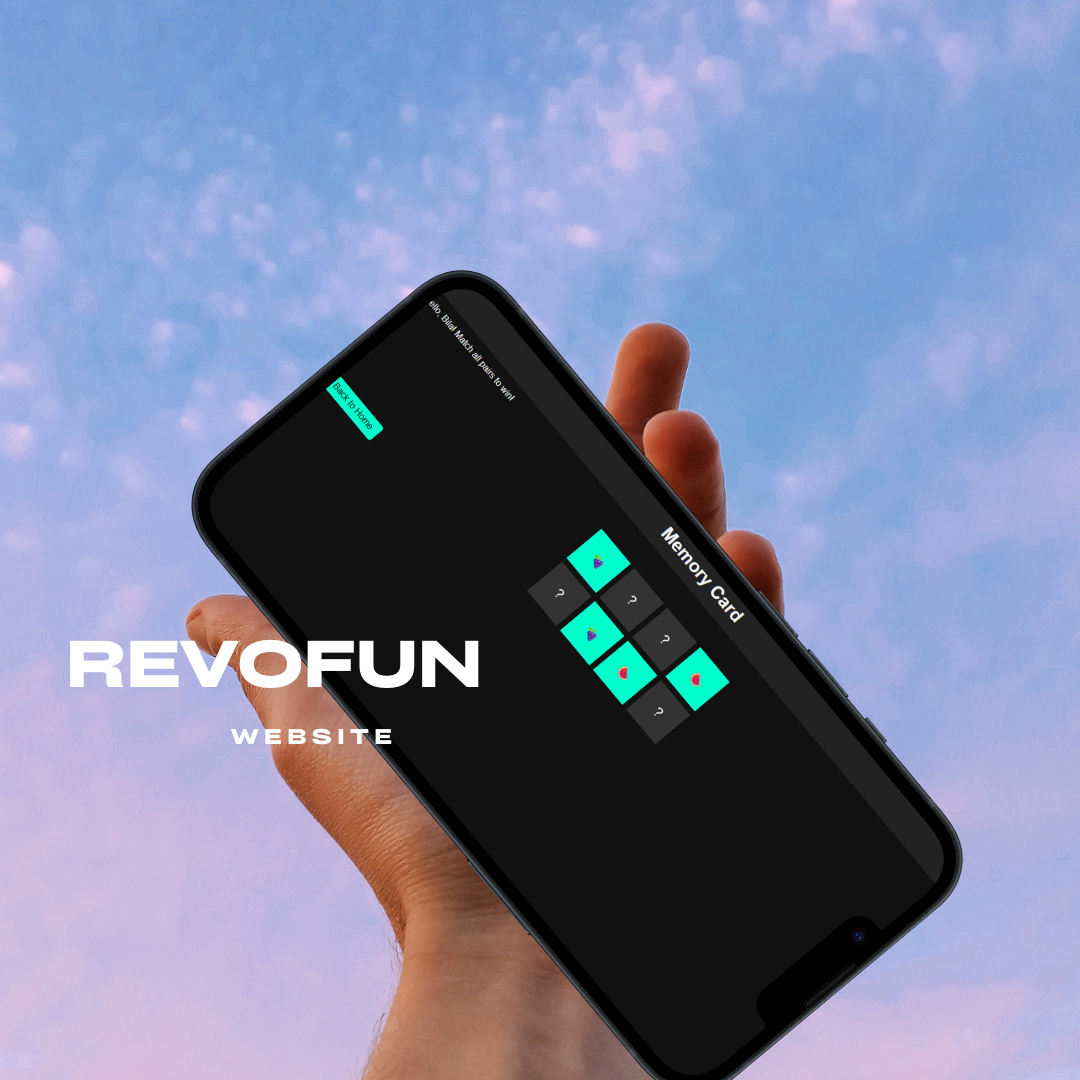
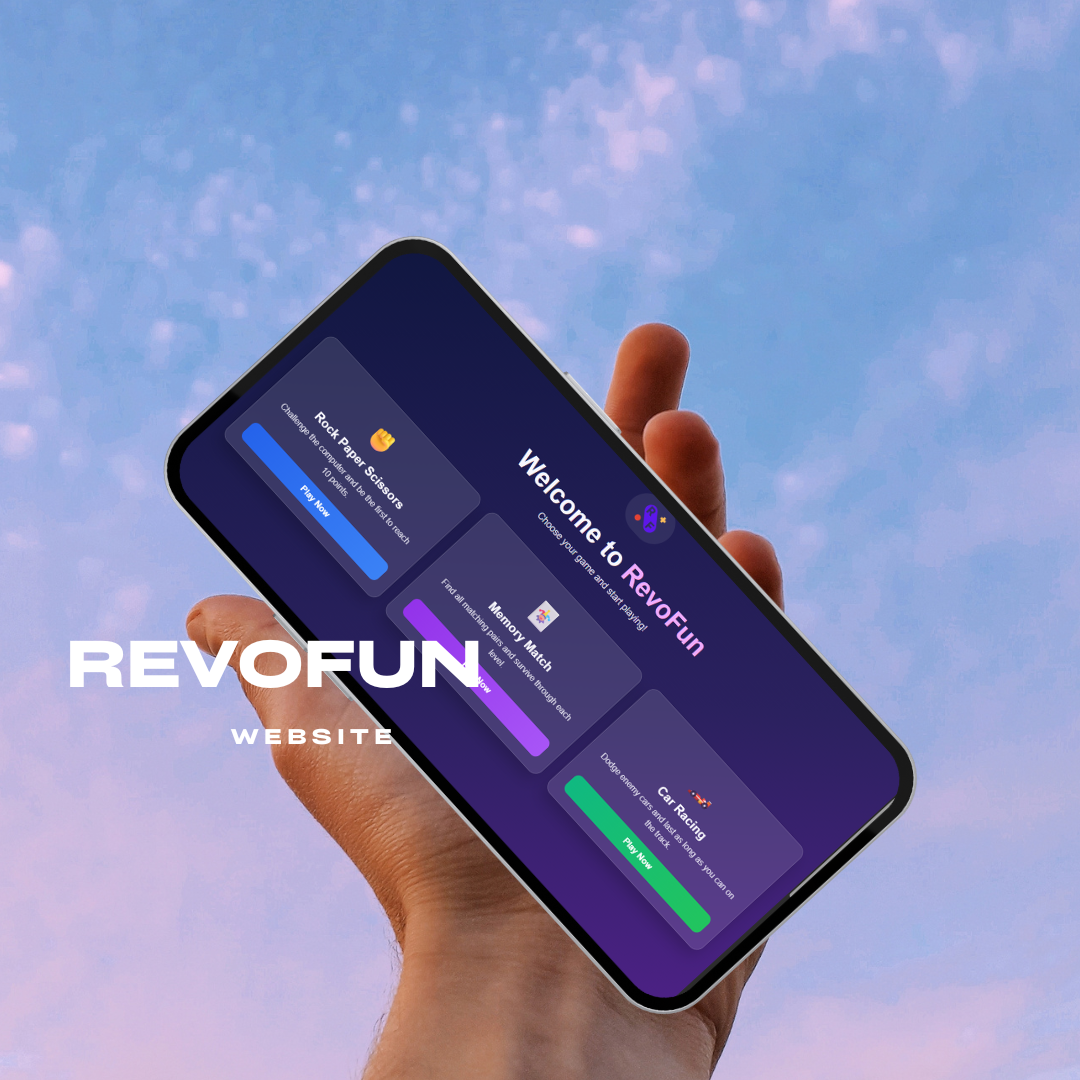
update game

Changed region(s): [[0.1528, 0.2139, 0.9167, 1.0]]

diff --git a/projects/game.html b/projects/game.html
@@ -328,16 +328,15 @@
       <div class="tech-list">
         <span class="tech-badge">HTML5</span>
         <span class="tech-badge">CSS3</span>
-        <span class="tech-badge">JavaScript</span>
-        <span class="tech-badge">Canvas API</span>
-        <span class="tech-badge">Web Storage API</span>
+        <span class="tech-badge">Vanilla JavaScript</span>
+        <span class="tech-badge">GitHub Pages</span>
       </div>
 
       <div class="divider"></div>
 
       <p class="section-label">Overview</p>
       <div class="screenshots-grid">
-        <img src="../assets/img/game.png" alt="Game overview" />
+        <img src="../assets/img/game.jpg" alt="Game overview" />
       </div>
 
       <div class="divider"></div>
@@ -345,33 +344,34 @@
       <p class="section-label">Project Summary</p>
       <div class="desc-card">
         <p>
-          RevoFun is an interactive web-based gaming platform featuring a
-          collection of classic arcade-style mini-games. Designed to demonstrate
-          front-end development skills and game logic implementation, the
-          project provides a centralized hub where users can engage in multiple
-          distinct gaming experiences directly within a web browser.
+          RevoFun is a web-based gaming hub featuring a collection of
+          interactive mini-games designed for browser-based play. The project
+          demonstrates front-end development proficiency by creating an engaging
+          user experience with a modern arcade aesthetic, providing
+          entertainment through classic game mechanics without requiring
+          additional installations.
         </p>
         <p>
-          The primary objective was to build a responsive gaming suite that
-          manages real-time user interaction and state. The project aimed to
-          implement diverse game mechanics—including pattern matching, collision
-          detection, and probability-based logic—while maintaining a cohesive
-          user interface and persistent high-score tracking via local storage.
+          The primary objective was to build a responsive, lightweight gaming
+          suite using pure web technologies. The project aimed to implement
+          distinct game logics—including competitive scoring, pattern
+          recognition, and survival mechanics—while ensuring a seamless
+          navigation experience between the landing page and individual game
+          modules.
         </p>
         <p>
-          I developed the platform using a vanilla JavaScript approach to ensure
-          high performance and deep control over game loops. I engineered the
-          core logic for three unique games: a Memory Match card game, a
-          "Rock-Paper-Scissors" simulator, and an "Avoid the Falling Objects"
-          survival game. I utilized CSS Flexbox/Grid for layout and the Web
-          Storage API for data persistence.
+          I engineered the platform using Vanilla JavaScript, HTML5, and CSS3,
+          adhering to a clean architectural structure. I developed the core
+          logic for three games: a "first to 10" Rock Paper Scissors match, a
+          Memory Match card game, and a "Car Racing" survival game, focusing on
+          real-time state updates and DOM manipulation.
         </p>
         <p>
-          The final deliverable is a multi-page web application consisting of a
-          central homepage and three fully functional mini-games. The system
-          features dynamic DOM manipulation to reflect game states, a
-          personalized welcome system, and an active scoring mechanism that
-          saves progress across browser sessions.
+          The final deliverable is a fully functional, mobile-responsive arcade
+          platform deployed on GitHub Pages. It features a modern landing page,
+          three interactive mini-games with persistent UI feedback, and a
+          structured codebase that allows for easy maintenance and future game
+          additions.
         </p>
       </div>
 
@@ -379,27 +379,26 @@
       <p class="section-label">Methods</p>
       <div class="desc-card">
         <p>
-          <strong>Game Loop Implementation:</strong> Managing state updates and
-          rendering for real-time interaction in the "Avoid" game.
+          <strong>DOM Manipulation:</strong> Dynamically updating game states,
+          scores, and UI elements based on user interaction.
         </p>
         <p>
-          <strong>Collision Detection:</strong> Coding logic to detect
-          intersections between player elements and falling obstacles.
+          <strong>State Management:</strong> Tracking player vs. computer scores
+          and match-over conditions in real-time.
         </p>
         <p>
-          <strong>Event-Driven Programming:</strong> Utilizing listeners to
-          handle user inputs for choices and movements.
+          <strong>Event-Driven Programming:</strong> Handling user inputs for
+          game selections and in-game tactical moves.
         </p>
         <p>
-          <strong>DOM Manipulation:</strong> Dynamically updating HTML elements
-          to reflect scores, results, and game transitions.
+          <strong>Responsive Web Design:</strong> Ensuring the arcade interface
+          remains functional and visually appealing on various screen sizes.
         </p>
       </div>
 
       <div class="proj-links">
-        <!--
         <a
-          href="#"
+          href="http://revofun.web.id/"
           class="proj-btn proj-btn--primary"
           target="_blank"
           rel="noopener noreferrer"
@@ -407,7 +406,7 @@
           <i class="fa-solid fa-arrow-up-right-from-square"></i>
           Play Now
         </a>
-    -->
+
         <a
           href="https://github.com/awxbila/RevoFun2.git"
           class="proj-btn proj-btn--ghost"
